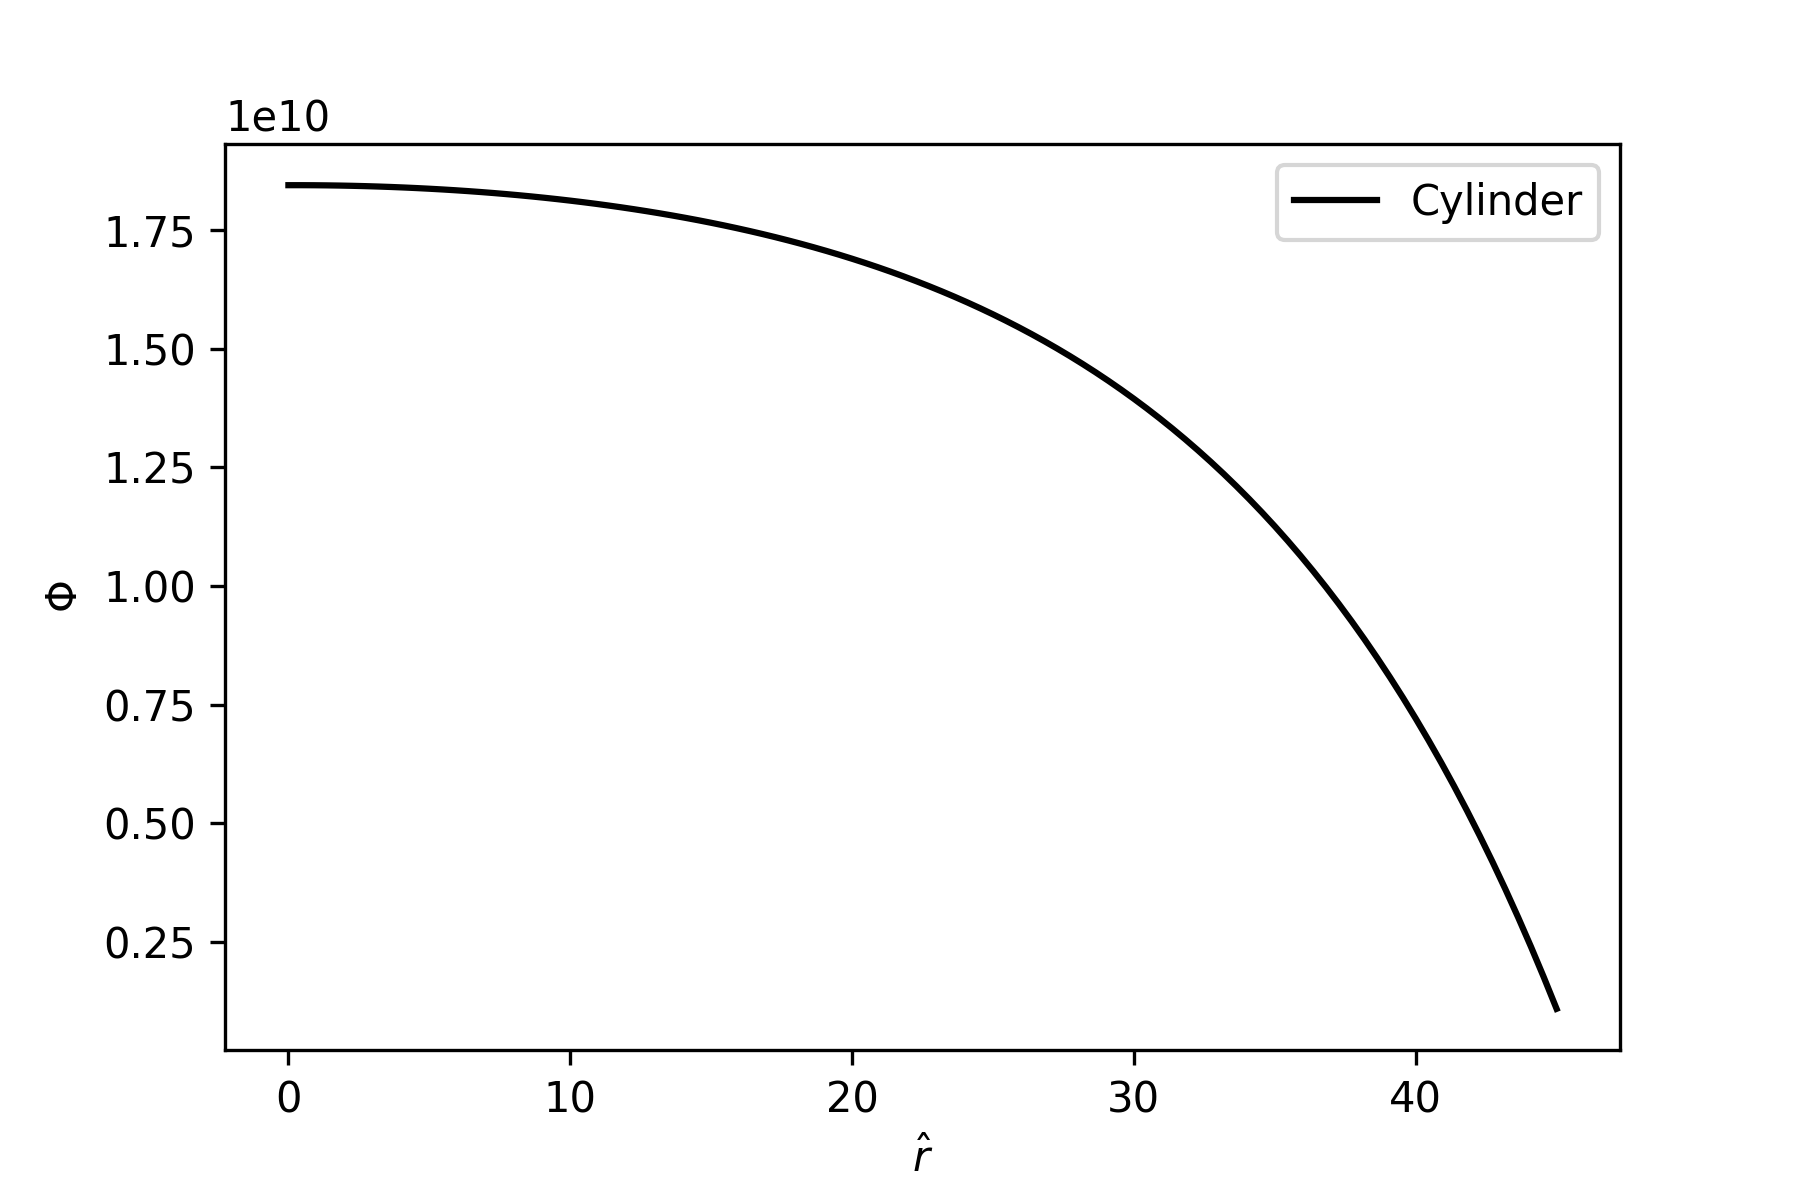
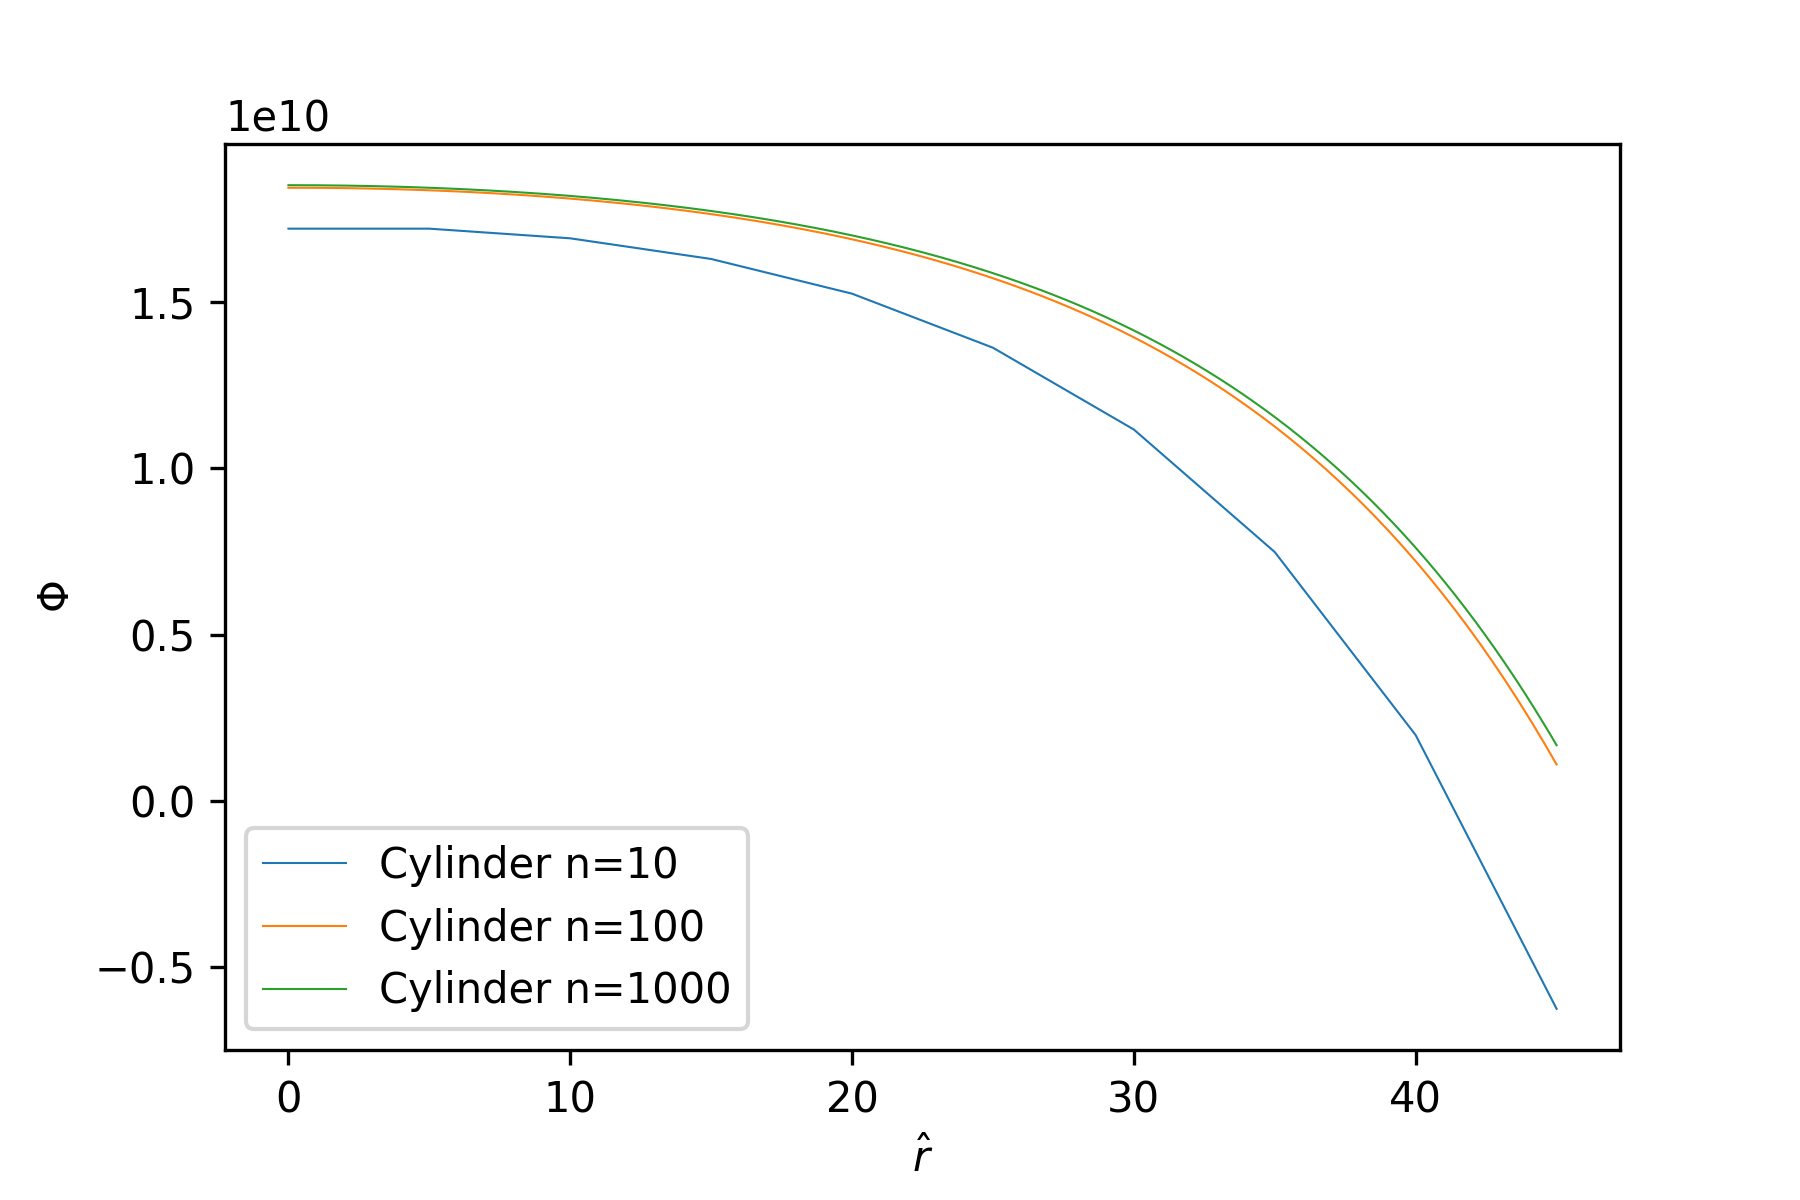
updated pictures

diff --git a/hw4/diffusion.py b/hw4/diffusion.py
@@ -79,24 +79,35 @@ def source_b(x, S_0):
     return S_0 * np.ones(len(x))
 
 
-def plot_it(phi, label, savename):
+def plot_it(phi, n, label, savename):
     """Utility for plotting."""
-    x = np.linspace(0, 45, 100)
     plt.figure(0)
     plt.xlabel('$\hat{r}$')
     plt.ylabel('$\Phi$')
-    plt.plot(x, phi, 'k', label=label)
+    for i, p in enumerate(phi):
+        plt.plot(np.linspace(0, 45, n[i]), p, label=label[i], linewidth=0.5)
     plt.legend()
     plt.savefig(savename + '.png', dpi=300)
     plt.clf()
 
 
 if __name__ == '__main__':
-    phi_slab = diffusion(100, 45, 0.600, 0.005, 10**8, source_a, geometry='slab')
-    phi_cyl = diffusion(100, 45, 0.600, 0.005, 10**8, source_b, geometry='cylinder')
-    phi_sph = diffusion(100, 45, 0.600, 0.005, 10**8, source_b, geometry='sphere')
+    # slab geometry
+    phi_slab = [diffusion(10, 45, 0.600, 0.005, 10**8, source_a, geometry='slab'),
+                diffusion(100, 45, 0.600, 0.005, 10**8, source_a, geometry='slab'),
+                diffusion(1000, 45, 0.600, 0.005, 10**8, source_a, geometry='slab')]
+
+    # cylindrical geometry
+    phi_cyl = [diffusion(10, 45, 0.600, 0.005, 10**8, source_b, geometry='cylinder'),
+               diffusion(100, 45, 0.600, 0.005, 10**8, source_b, geometry='cylinder'),
+               diffusion(1000, 45, 0.600, 0.005, 10**8, source_b, geometry='cylinder')]
+
+    # spherical geometry
+    phi_sph = [diffusion(10, 45, 0.600, 0.005, 10**8, source_b, geometry='sphere'),
+               diffusion(100, 45, 0.600, 0.005, 10**8, source_b, geometry='sphere'),
+               diffusion(1000, 45, 0.600, 0.005, 10**8, source_b, geometry='sphere')]
 
     # plot the slab
-    plot_it(phi_slab, 'Slab', 'slab')
-    plot_it(phi_cyl, 'Cylinder', 'cyl')
-    plot_it(phi_sph, 'Sphere', 'sph')
+    plot_it(phi_slab, [10, 100, 1000], ['Slab n=10', 'Slab n=100', 'Slab n=1000'], 'slab')
+    plot_it(phi_cyl, [10, 100, 1000], ['Cylinder n=10', 'Cylinder n=100', 'Cylinder n=1000'], 'cyl')
+    plot_it(phi_sph, [10, 100, 1000], ['Sphere n=10', 'Sphere n=100', 'Sphere n=1000'], 'sph')
